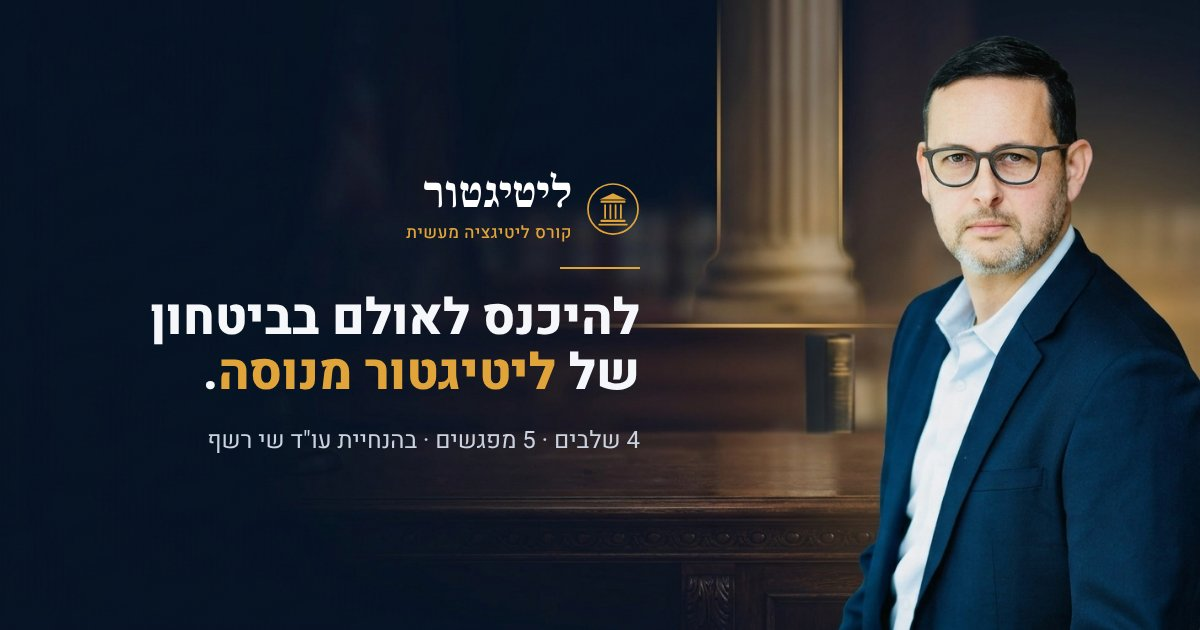
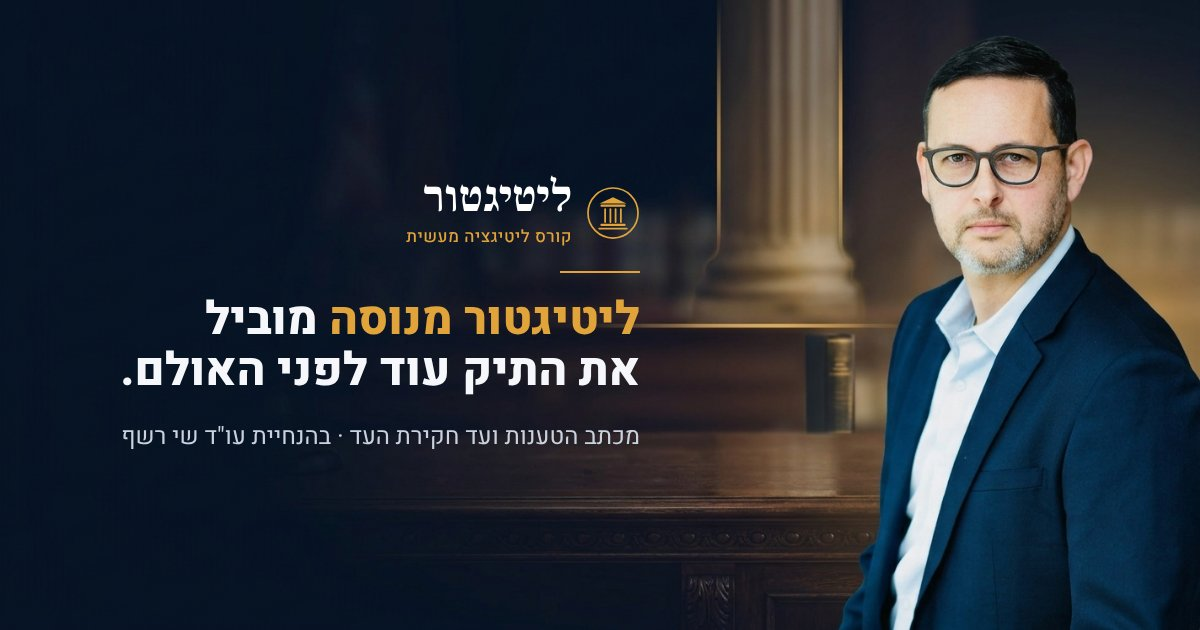
New hero headline: ליטיגטור מנוסה מוביל את התיק עוד לפני האולם
Claude-Session: https://claude.ai/code/session_01GauvtpQtmPzyaCkAz8AxXW

Changed region(s): [[0.0925, 0.4222, 0.555, 0.6333], [0.0925, 0.6635, 0.5242, 0.7238], [0.3392, 0.2714, 0.555, 0.3921]]

diff --git a/index.html b/index.html
@@ -6,7 +6,7 @@
 <title>ליטיגטור | קורס ליטיגציה מעשית לעורכי דין, בהנחיית עו"ד שי רשף</title>
 <link rel="icon" type="image/svg+xml" href="images/logo.svg">
 <meta name="description" content="כל שלבי התיק, מניתוח התיק ועד חקירת העדים. חמישה מפגשים בקבוצה קטנה, עם ליטיגטור עם 20 שנות ניסיון. כלים פרקטיים שאפשר להשתמש בהם כבר למחרת.">
-<meta property="og:title" content="להיכנס לאולם בביטחון של ליטיגטור מנוסה.">
+<meta property="og:title" content="ליטיגטור מנוסה מוביל את התיק עוד לפני האולם.">
 <meta property="og:description" content="תוכנית ליטיגציה מעשית לעורכי דין עצמאיים, בהנחיית עו״ד שי רשף.">
 <meta property="og:image" content="images/og.jpg">
 <meta property="og:type" content="website">
@@ -99,6 +99,7 @@ header .btn{min-height:44px;font-size:16px;padding:0 20px}
 .pill{display:inline-flex;align-self:flex-start;padding:7px 16px;border-radius:999px;border:1px solid #3A4A63;font-size:16px;font-weight:600;color:#D7DEE8}
 .hero h1{font-weight:900;font-size:clamp(36px,4.8vw,62px);line-height:1.08;text-wrap:balance}
 .hero h1 em{font-style:normal;color:var(--gold)}
+.hero h1 .h1-sub{display:block;margin-top:14px;font-size:.5em;font-weight:700;line-height:1.25;color:var(--on-dark)}
 .hero .sub{font-size:clamp(18px,2vw,22px);color:var(--on-dark);max-width:640px}
 .hero-media{position:relative;aspect-ratio:4/5;border-radius:20px;overflow:hidden}
 .hero-media img{width:100%;height:100%;object-fit:cover;object-position:center 30%}
@@ -248,8 +249,8 @@ footer nav{display:flex;gap:18px}
 <section class="dark hero">
   <div class="wrap">
     <div class="stack" style="gap:24px">
-      <p class="pill">לעורכי דין שרוצים להגיע לכל דיון עם ארגז כלים חזק</p>
-      <h1>להיכנס לאולם בביטחון של <em>ליטיגטור מנוסה</em>. כבר מהתיק הבא.</h1>
+      <p class="pill">לעורכי דין שרוצים לנהל כל תיק עם ארגז כלים חזק</p>
+      <h1><em>ליטיגטור מנוסה</em> מוביל את התיק עוד לפני האולם. <span class="h1-sub">מכתב הטענות ועד חקירת העד.</span></h1>
       <p class="sub">לוקחים כל שלב בתיק ויוצאים עם כלים פרקטיים שאפשר להשתמש בהם כבר למחרת. ליטיגטור עם 20 שנות ניסיון מעביר לך את כל מה שהוא יודע, בקבוצה קטנה.</p>
       <div class="cta-row">
         <a class="btn" href="#form" data-cta="hero">אני רוצה את כל הפרטים</a>
